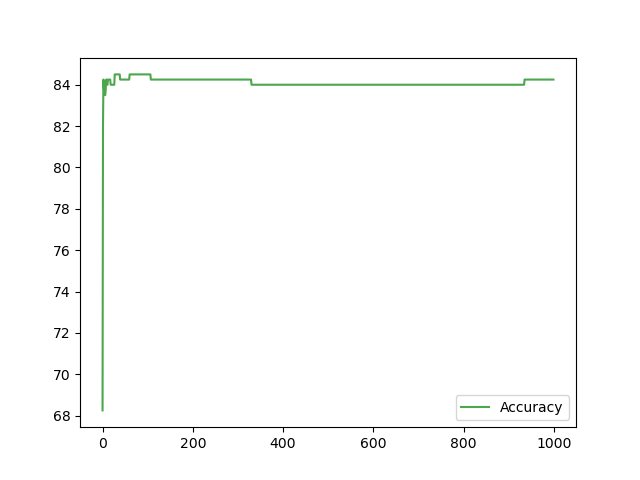
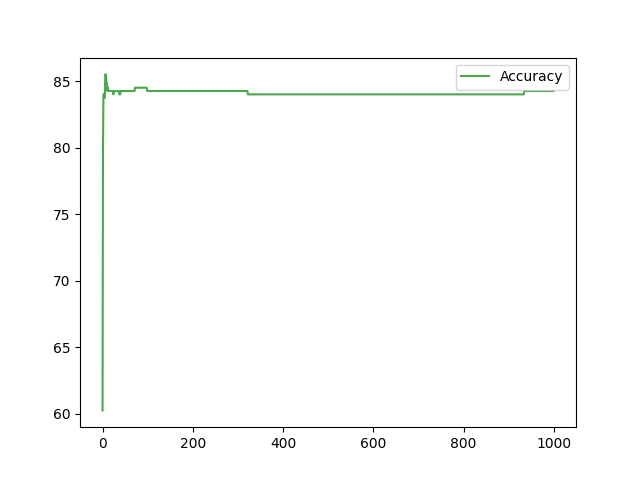
added models

diff --git a/APP/main.js b/APP/main.js
@@ -2,6 +2,10 @@ let X=[]
 let Y=[]
 let cols
 let fpath=''
+eel.trymedaddy()((r)=>{
+    console.log(r)
+    console.log("im comming too!!! ")
+})
 //control handleUploadFile
 function handleUploadFile(){
     document.getElementById("inputPathCont").style.display='block'

diff --git a/main.py b/main.py
@@ -9,11 +9,17 @@ import numpy as np
 import eel
 import matplotlib.pyplot as plt
 import pandas as pd
+import tqdm
+import time
 
 eel.init("APP")
 @eel.expose
-
-
+def trymedaddy():
+    print("im inside you honey!!")
+    for i in tqdm.tqdm(range(10)):
+	        time.sleep(0.5)
+    return "im comming daddy!!!"
+@eel.expose
 def run(filepath):
      #Importing dataset to build model 
     dataset=pd.read_csv(filepath)
@@ -23,18 +29,32 @@ def run(filepath):
 @eel.expose
 def display(fpath,x,y,Algorithm):
     if len(x)>0 and len(y)>0:
+        
         dataset=pd.read_csv(fpath)
         X=dataset[x].values
         Y=dataset[y].values
+        print("before sc",X[0:10,:])
         sc = StandardScaler()
         X = sc.fit_transform(X)
+        print("After sc",X[0:10,:])
         if Algorithm=="LogisticRegression":
             ob=LogisticRegression(learning_rate=0.05,epochs=1000)
             ob.fit(X,Y) 
             path = "./APP"
             c, a = ob.get_cst_acc()
-            plot_cost_acc(c, a, True, path)
-
+            plot_cost_acc(c, a,False, path)
+        elif Algorithm=="KNN":
+            ob=KNN(neighbours=2, p=2)
+            ob.fit(X,Y) 
+            YPred=np.array(ob.predict(X))
+            YPred=np.reshape(YPred,(YPred.shape[0],1))
+            
+            print(YPred[0:10,:],Y[0:10,:])
+            # print("shape of Ypred",YPred,"shape of Y",Y)
+            path = "./APP"
+            plot_cost_acc(Y,YPred,False,path)
+            # c, a = ob.get_cst_acc()
+            # plot_cost_acc(c, a, True, path)
         return 1
     else:
         return 0 
